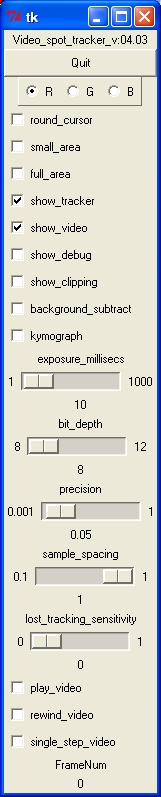
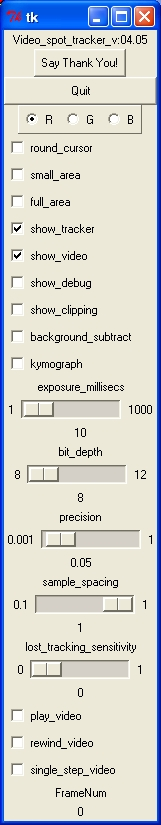
2006-01-27  Russell M. Taylor II  <taylorr@cs.unc.edu>
* video_spot_tracker.cpp : Adds "Thank-You Ware" button.

diff --git a/video_spot_tracker/video_spot_tracker.html b/video_spot_tracker/video_spot_tracker.html
@@ -1,6 +1,6 @@
-<title>Video Spot Tracker v04.04</title>
+<title>Video Spot Tracker v04.05</title>
 
-<h1>Video Spot Tracker version 04.04</h1>
+<h1>Video Spot Tracker version 04.05</h1>
 
 <p>The <i><b>Video Spot Tracker</b></i> program is used to track the motion of 
   one or more spots in a <a href="http://www.microsoft.com/directx">Microsoft 
@@ -16,19 +16,34 @@
   control, and the portable <a href="http://www.imagemagic.org">ImageMagick</a> 
   package for reading images.</p>
 
+<h2>Thank-You Ware</h2>
+<p>This program is distributed as &quot;Thank-You Ware.&quot; As a National Research 
+  Resource, we are funded by the NIH National Institute of Biomedical Imaging 
+  and Bioengineering to develop tools for scientists. Part of our mission is to 
+  distribute these tools broadly to help biomedical researchers do their work.</p>
+<p>Rather than making you register to download our software or join a mailing 
+  list or provide other personally-identifying material to use our code, we've 
+  come up with the following easy and anonymous way for you to let us know we're 
+  helping the community. When you press the &quot;Say Thank You!&quot; button 
+  to let us know you appreciate having the tool, the application sends a web query 
+  to our server and logs your response (not your name or your phone number, just 
+  a web hit count). We add up these counts and report them to the reviewers for 
+  our renewal applications when we ask NIBIB to continue funding us to maintain 
+  our existing tools and to build new ones. Please press the button whenever you 
+  feel like the tool has been helpful to you.</p>
 <h2>Running the program</h2>
 
 <p>The program is run by dragging a video file or image file onto the desktop 
   icon that was created when the program was installed. To select a stack of image 
   files that are numbered consecutively, drag any one of the files onto the icon. 
   It can also be run by selecting one of the camera-specific shortcuts from <i><b>Start 
-  Menu/All Programs/NSRG/Video Spot Tracker v04.04</b></i>. If you run the program 
+  Menu/All Programs/NSRG/Video Spot Tracker v04.05</b></i>. If you run the program 
   directly by double-clicking on the icon, it will ask for a video or image file 
   (AVI, TIF, or BMP) that it should open.</p>
 
 <p><b><i>NOTE:</i></b> With Windows XP service pack 2 and with other firewall software, running the program causes a dialog box to appear asking whether to block the program; the program needs to be unblocked only if the program is to be connected to a local or remote feedback system that relies on the tracking data. This happens when the program opens the Internet port assigned to it (3883) by the Internet Domain Naming Authority to export the data through the standard VRPN protocol (<a href="http://www.vrpn.org">www.vrpn.org</a>).</p> 
 
-<h2><img src="GUI.jpg" width="161" height="797" align="right">Using the program</h2>
+<h2><img src="GUI.jpg" width="161" height="825" align="right">Using the program</h2>
 
 <p>When the program is run and a file is selected, four windows will appear. The image window that appears on the lower right contains the first image within the video file or a continually-updating image from a live camera feed. The control panel named <b><i>tk</i></b> that appears on the left when the program is run (shown here to the right) contains a number of interaction widgets that control the operation of the program. The <b><i>kernel</i></b> control panel that appears above the image window (described later) controls the type of tracking kernel being used. The <b><i>log</i></b> control panel is described later.</p>
 
@@ -174,7 +189,7 @@
   program was. You convert the &quot;.vrpn&quot; file into a Matlab file by dragging 
   it onto a shortcut that points to the program (or by dragging it onto the program 
   itself). The vrpnLogToMatlab program will have been installed in the directory: 
-  <b><i>C:\Program Files\NSRG\Video Spot Tracker v04.04\VrpnLogToMatlib</i></b> 
+  <b><i>C:\Program Files\NSRG\Video Spot Tracker v04.05\VrpnLogToMatlib</i></b> 
   and it will also be located on the desktop.</p>
 
 <p><strong>Data description:</strong> Positions and radii are reported in units of pixels, with the origin at the upper-right corner of the screen. +X is towards the right on the displayed window and +Y is towards the bottom.</p>
@@ -213,6 +228,10 @@
 
 <h2>Version Information</h2>
 
+<h3>Version 4.05:</h3>
+<ul>
+  <li>Adds &quot;Thank-you Ware&quot; button to the program.</li>
+</ul>
 <h3>Version 4.04:</h3>
 <ul>
   <li>Includes <i>background_subtract</i> feature that will subtract up to 50 

diff --git a/video_spot_tracker.cpp b/video_spot_tracker.cpp
@@ -62,7 +62,7 @@ const double M_PI = 2*asin(1.0);
 
 //--------------------------------------------------------------------------
 // Version string for this program
-const char *Version_string = "04.04";
+const char *Version_string = "04.05";
 
 //--------------------------------------------------------------------------
 // Global constants
@@ -2331,6 +2331,33 @@ int main(int argc, char *argv[])
           return(-1);
   }
   sprintf(command, "pack .versionlabel");
+  if (Tcl_Eval(g_tk_control_interp, command) != TCL_OK) {
+          fprintf(stderr, "Tcl_Eval(%s) failed: %s\n", command,
+                  g_tk_control_interp->result);
+          return(-1);
+  }
+
+  //------------------------------------------------------------------
+  // Put the "Thank-you Ware" button into the main window.
+  sprintf(command, "package require http");
+  if (Tcl_Eval(g_tk_control_interp, command) != TCL_OK) {
+          fprintf(stderr, "Tcl_Eval(%s) failed: %s\n", command,
+                  g_tk_control_interp->result);
+          return(-1);
+  }
+  sprintf(command, "set thanks_text \"Say Thank You!\"");
+  if (Tcl_Eval(g_tk_control_interp, command) != TCL_OK) {
+          fprintf(stderr, "Tcl_Eval(%s) failed: %s\n", command,
+                  g_tk_control_interp->result);
+          return(-1);
+  }
+  sprintf(command, "button .thankyouware -textvariable thanks_text -command { ::http::geturl \"http://www.cs.unc.edu/Research/nano/cismm/thankyou/yourewelcome.htm?program=video_spot_tracker&Version=%s\" ; set thanks_text \"Paid for by NIH/NIBIB\" }", Version_string);
+  if (Tcl_Eval(g_tk_control_interp, command) != TCL_OK) {
+          fprintf(stderr, "Tcl_Eval(%s) failed: %s\n", command,
+                  g_tk_control_interp->result);
+          return(-1);
+  }
+  sprintf(command, "pack .thankyouware");
   if (Tcl_Eval(g_tk_control_interp, command) != TCL_OK) {
           fprintf(stderr, "Tcl_Eval(%s) failed: %s\n", command,
                   g_tk_control_interp->result);
